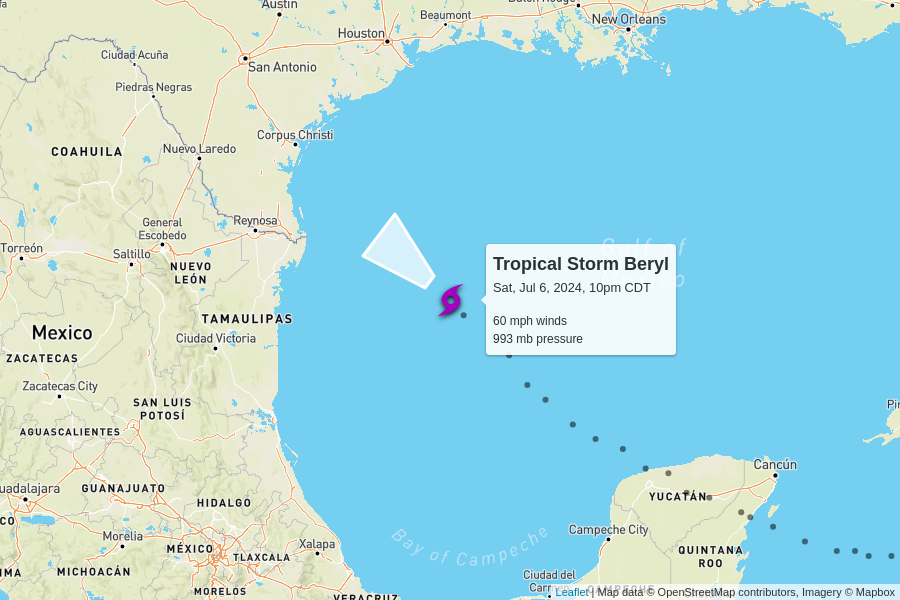
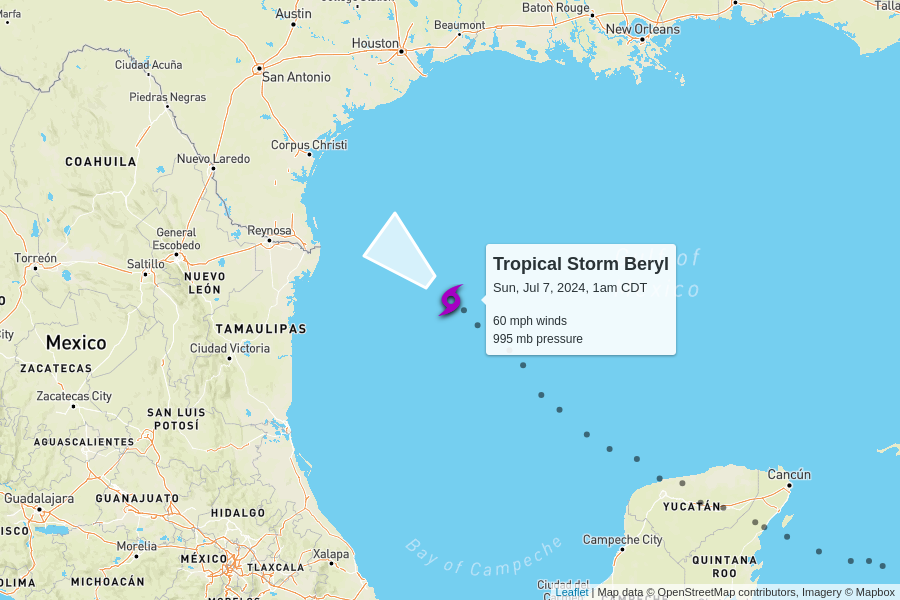
automatic update

diff --git a/docs/index.html b/docs/index.html
@@ -102,7 +102,7 @@
         <td colspan="6" class="storm category-0" >
           <h2>
             Tropical Storm Beryl
-            <p class="updated">last updated <span data-time>2024-07-07T03:00:00.000Z</span></p>
+            <p class="updated">last updated <span data-time>2024-07-07T06:00:00.000Z</span></p>
           </h2>
         </td>
       </tr>
@@ -118,7 +118,7 @@
       <tr>
         <td class="spacer"></td>
         <td>60 mph<br>0 mph since last update</td>
-        <td>993 mb<br>-4 mb since last update</td>
+        <td>995 mb<br>+2 mb since last update</td>
         <td>
           13 mph to the northwest
           <br/>
